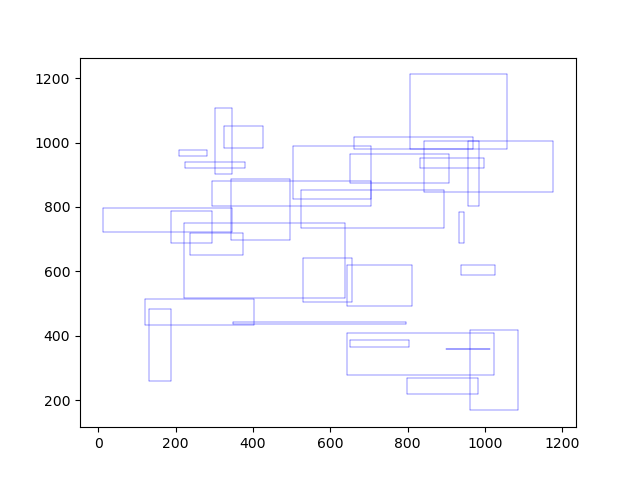
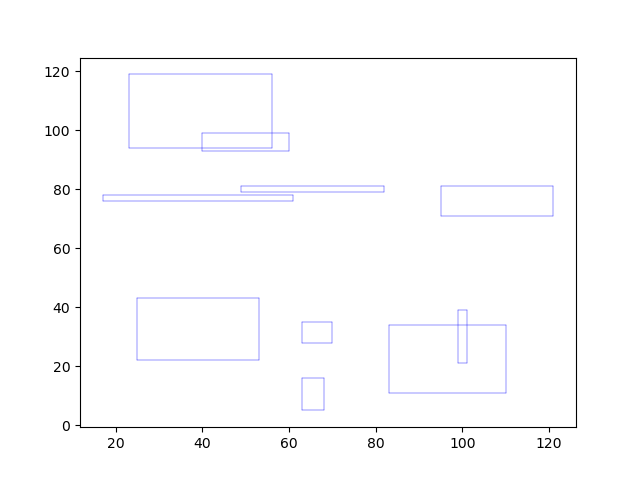
Check implemented if inside of a rectangle is empty.

diff --git a/src/Grid.java b/src/Grid.java
@@ -1,8 +1,10 @@
 import java.util.ArrayList;
+import java.util.HashMap;
 import java.util.Random;
 
 public class Grid {
 
+    private final HashMap<Coordinate, Integer> gridSystem;
     private ArrayList<Rectangle> objects;
     private final long seed;
     private final Random rnd;
@@ -10,14 +12,19 @@ public class Grid {
     public Grid(long seed){
         this.seed = seed;
         rnd = new Random(this.seed);
+        gridSystem = new HashMap<>();
     }
 
     public Grid(){
         rnd = new Random();
         seed = rnd.nextLong();
+        gridSystem = new HashMap<>();
     }
 
 
+    public HashMap<Coordinate, Integer> getGridSystem() {
+        return gridSystem;
+    }
 
     public void init(int L, int quantity, int lowerBoundLength, int upperBoundLength,
                                             int lowerBoundWidth, int upperBoundWidth){
@@ -31,6 +38,8 @@ public class Grid {
             width = (int) Math.floor(rnd.nextDouble()*(upperBoundWidth-lowerBoundWidth+1)+lowerBoundWidth);
             this.objects.add(new Rectangle(L, length, width, rnd));
         }
+
+        placement();
     }
 
     public ArrayList<Rectangle> getObjects() {
@@ -39,5 +48,38 @@ public class Grid {
 
     public void setObjects(ArrayList<Rectangle> objects) {
         this.objects = objects;
+    }
+
+    public void placement() {
+        try{
+            for (Rectangle rec:objects) {
+                for(int i = rec.x1.getX(); i <= rec.x2.getX(); i++){
+                    for(int j = rec.x1.getY(); j <= rec.y1.getY(); j++){
+                        Coordinate blocking = new Coordinate(i, j);
+                        int actualValue;
+                        try{
+                           actualValue = gridSystem.get(blocking);
+                        } catch (NullPointerException ex){
+                           actualValue = 0;
+                        }
+                        gridSystem.put(blocking, actualValue+1);
+                    }
+                }
+            }
+        } catch (NullPointerException ex){
+            ex.printStackTrace();
+        }
+    }
+
+    public boolean isEmpty(Rectangle rec){
+        for(int i = rec.x1.getX() + 1; i < rec.x2.getX(); i++){
+            for(int j = rec.x1.getY() + 1; j < rec.y1.getY(); j++){
+                int value = gridSystem.get(new Coordinate(i, j));
+                if( value > 1){
+                    return false;
+                }
+            }
+        }
+        return true;
     }
 }

diff --git a/src/Main.java b/src/Main.java
@@ -1,11 +1,19 @@
 import gui.ScriptPython;
 
+import java.util.HashMap;
+
 public class Main {
 
     public static void main(String[] args) {
-        Grid grid = new Grid();
-        grid.init(1000, 30, 1, 450,
-                1, 250);
+        Grid grid = new Grid(123);
+        grid.init(100, 10, 1, 45,
+                1, 25);
+
+        HashMap<Coordinate, Integer> gridsystem = grid.getGridSystem();
+
+        for (Rectangle rect:grid.getObjects()) {
+            System.out.println(grid.isEmpty(rect));
+        }
 
         WriteToFile writer = new WriteToFile(grid.getObjects());
         writer.write();

diff --git a/src/Coordinate.java b/src/Coordinate.java
@@ -2,6 +2,7 @@ public class Coordinate {
 
     public int x, y;
 
+
     public Coordinate(int x, int y){
         this.x = x;
         this.y = y;
@@ -40,4 +41,15 @@ public class Coordinate {
     public void setY(int y) {
         this.y = y;
     }
+
+    @Override
+    public String toString() {
+        return "x: " + this.x + ", " + "y: " + this.y;
+    }
+
+    @Override
+    public int hashCode() {
+        return x+y+"appendix".hashCode();
+    }
+
 }
